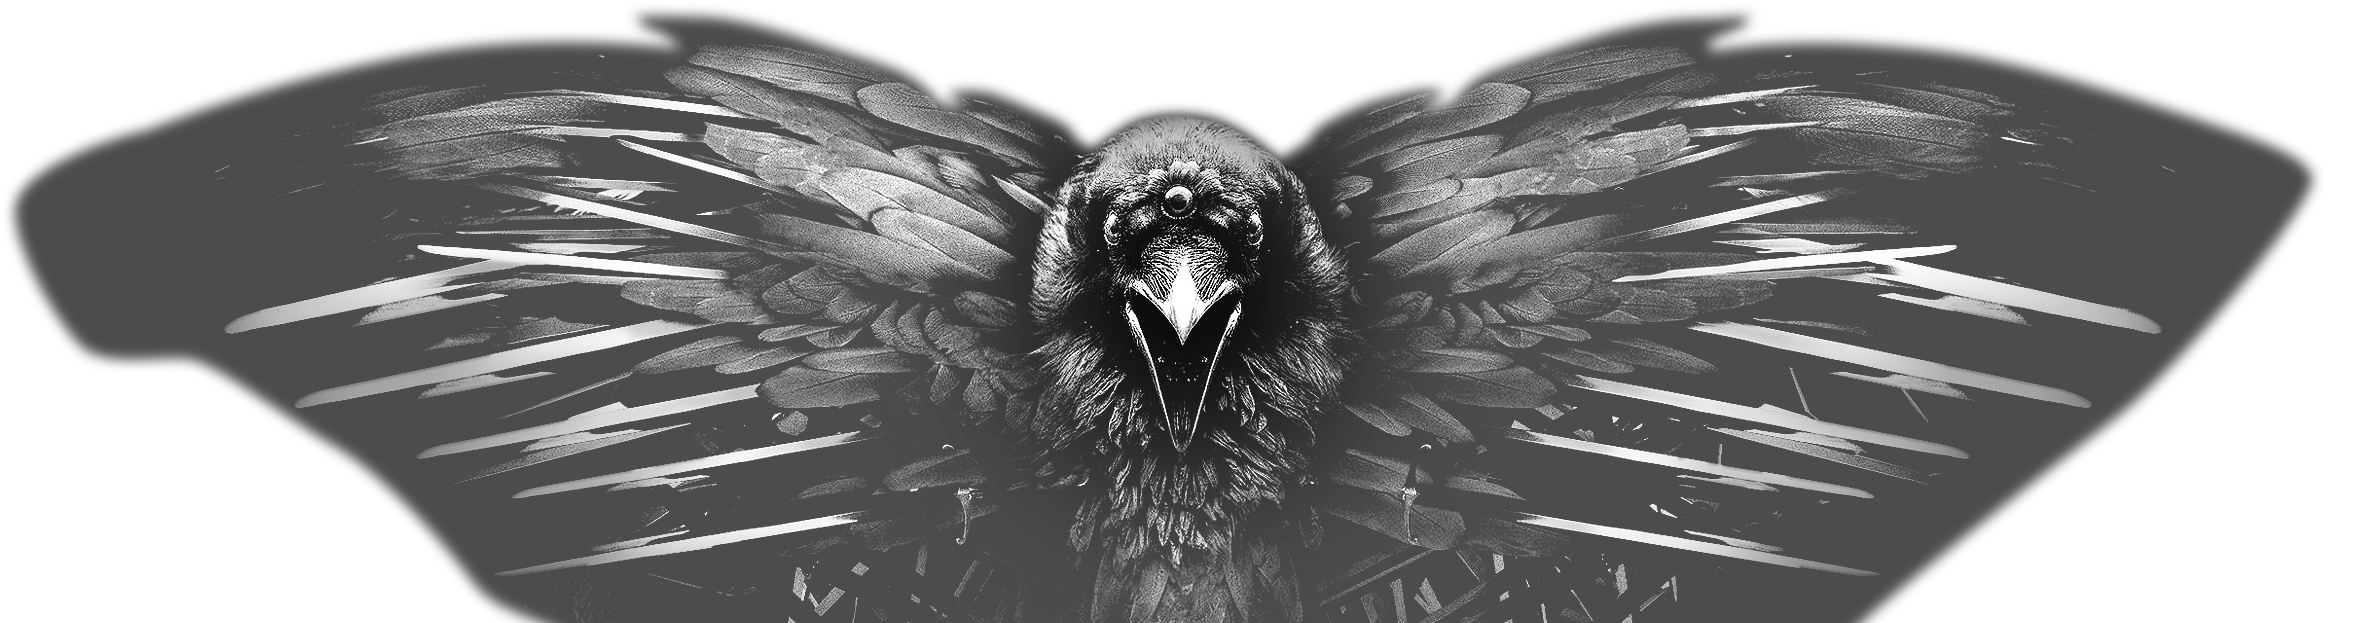
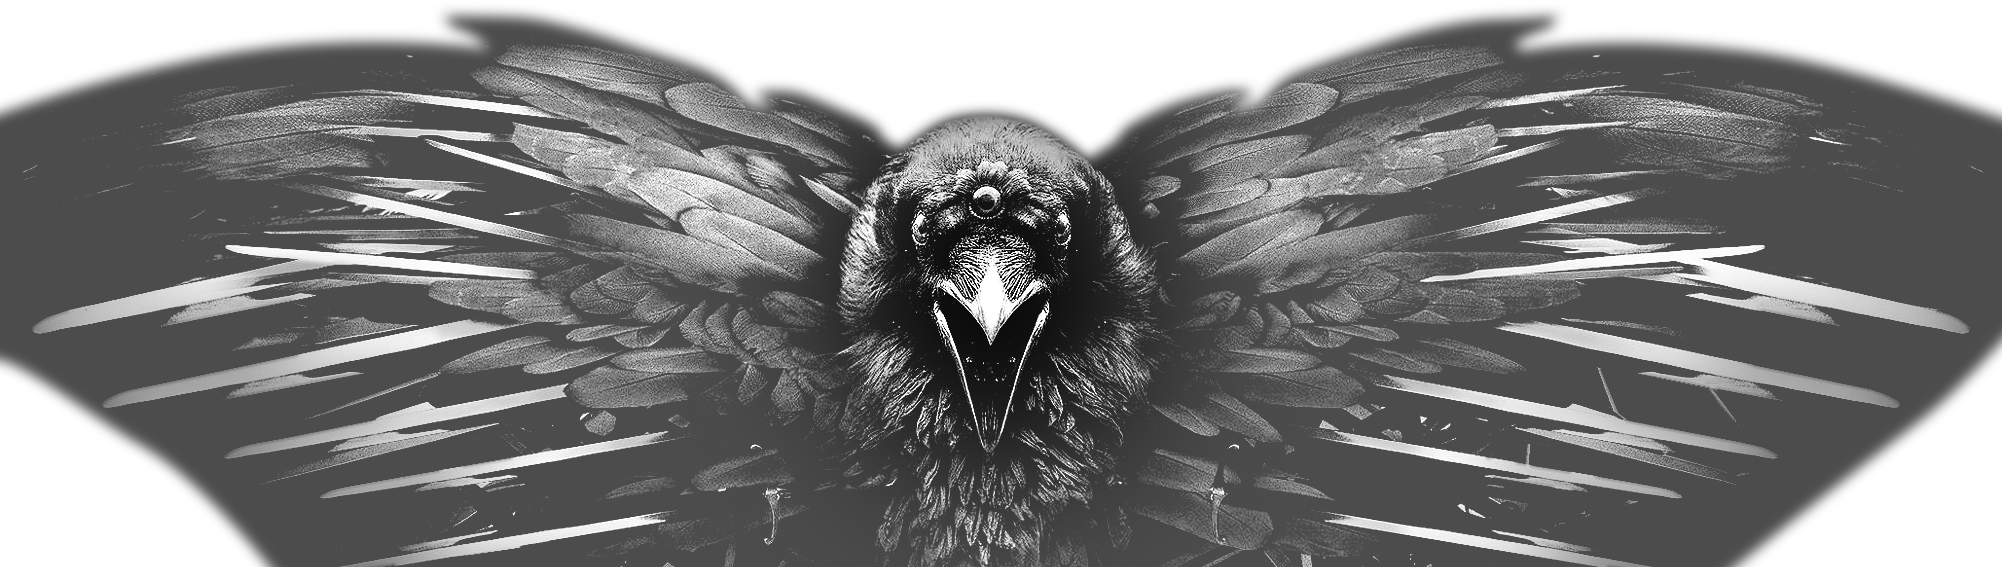
backgound changes

diff --git a/assets/css/style.css b/assets/css/style.css
@@ -13,7 +13,7 @@ body, html{
     background-repeat: no-repeat;
     background-position-y: bottom;
     background-position-x: center;
-    background-size: contain;
+    background-size: 100%;
 }
 
 header{
